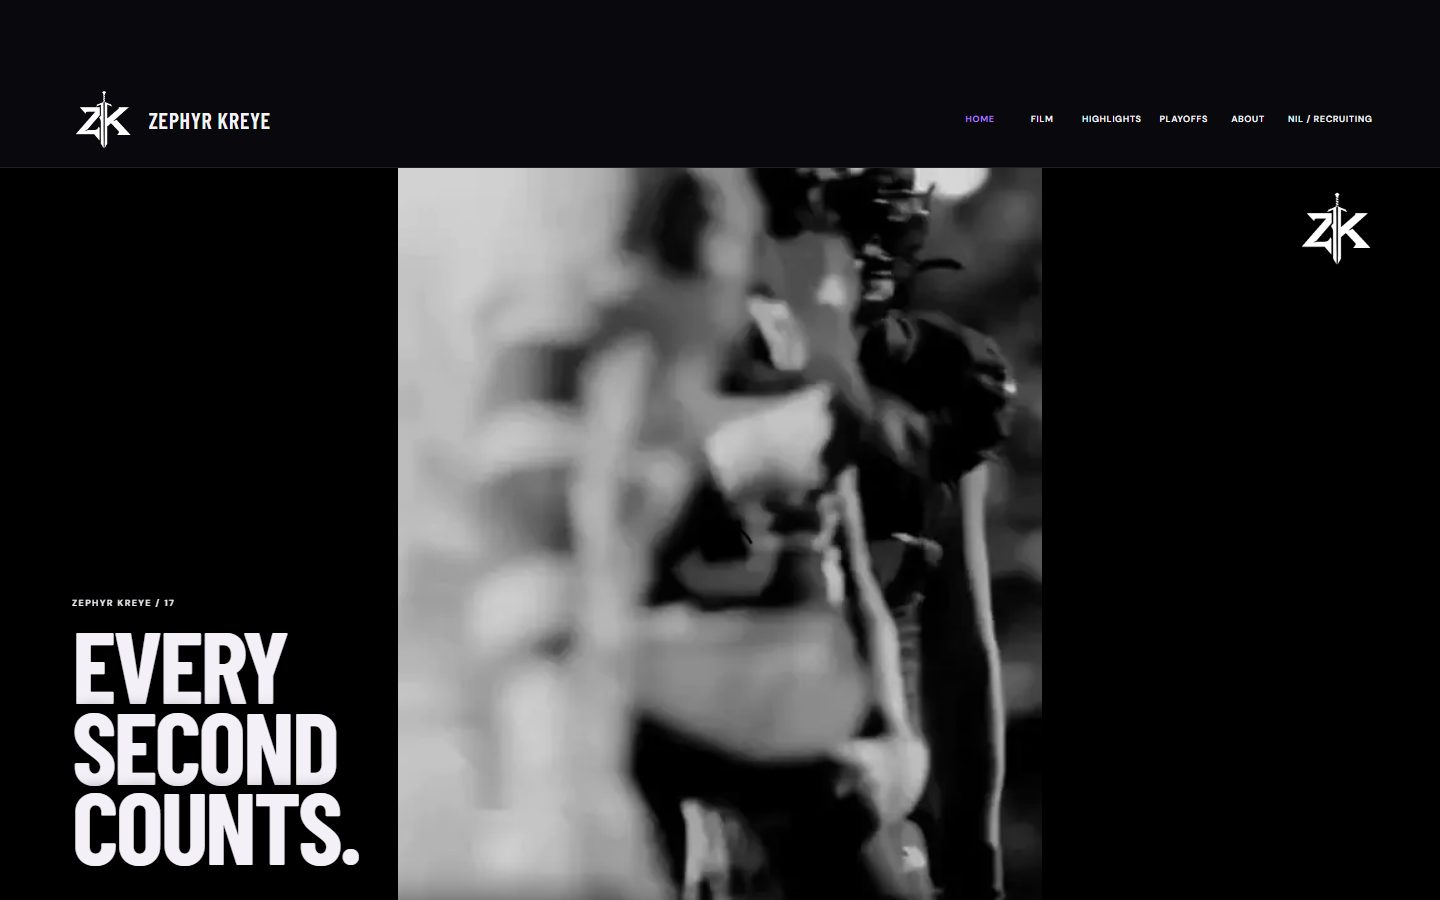
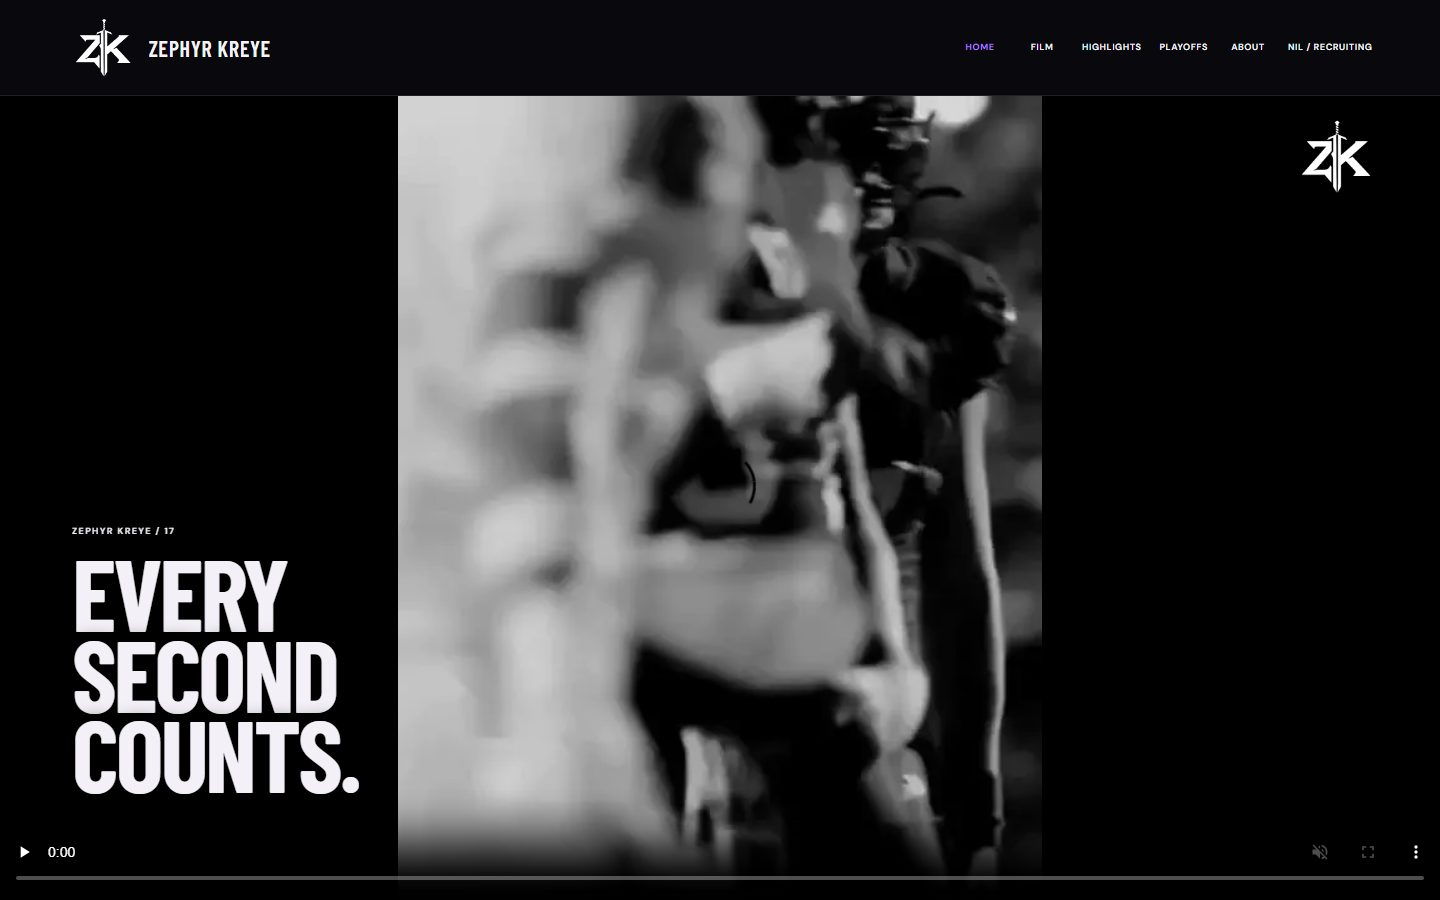
[CF-Pages-Skip] Record refined controls acceptance and settled baseline evidence

diff --git a/.agent/evidence/refined-controls/review.md b/.agent/evidence/refined-controls/review.md
@@ -1,3 +1,30 @@
+# Final verdict — READY FOR DEVELOPMENT PREVIEW
+
+No unresolved material product findings on the frozen local candidate. This is an independent source/browser review, not merge or production approval. The owner authorized development preview only; deployment and remote verification remain the lead's delivery steps.
+
+Candidate: **7e8f5e41d6697478b42d5bc114666ae3f27d9e45**, compared with dc7739e4bead6179042ac3589dfa2c77e13c1dea. Independently verified HEAD equals that commit and the app/components/lib/content/package worktree diff against HEAD is empty after final checks. Protected lib/content/public/package diff against the base is also empty. Any product edit requires affected re-verification.
+
+## Final evidence inspected
+
+- Final lint and typecheck logs: clean; unit-final:62 passed, zero failed.
+- build-final: successful webpack static export, release boundary/prebuild,63-game validation, playoff asset validation.
+- e2e-final:213 passed,7 existing skips, zero failures across desktop Chromium, mobile Chromium, iPhone WebKit emulation, reduced motion. Repaired assertions retain intro phase/visibility, focus, navigation and44px lower bounds; they do not waive behavior.
+- Before/after capture manifests:29 images each covering control families in desktop/portrait/landscape. Independently inspected representative hero, links/primary, playoff, arcade, game-center and media-close frames; final portrait and landscape menu frames now show canonical brand, six readable links and one CLOSE.
+- Independent runtime:21 route/viewport combinations, no horizontal document overflow. Menus retain keyboard wrap and body scroll lock. Final menu repair specifically rerun in8 combinations (Chromium/WebKit x portrait/landscape x home/About): CLOSE focused and center hit-testable; trigger hidden; six links visible; Escape and pointer CLOSE restore MENU focus.
+- Independent repairs checked: three affected logo links44x44; film CLOSE44x44; game CLOSE44.56x44; paper pressed color rgb105,64,170. Arcade four categories each retain three supplied items, selected2px underline and return focus. RegionIII15 games, selected round4 games.
+- Independent animated Chromium/WebKit forward/reverse: SCROLL TO EXPLORE after reveal focuses FilmRoom at top0, introComplete=true; reverse to top restores introComplete=false and cold-logoopacity0.9. Timeline durations/distances remain unchanged.
+- Latest real-Hudl receipt: starts paused, then video currentTime>0.7 in Chromium/WebKit; desktop fullscreen succeeds; no latest pageerrors/overflow; homepage makes zero Hudl requests. Independently tested real iframe identity in both engines through390/844/1440 resize and scrolling: one iframe, one total Hudl navigation, same document marker retained.
+- Source audit: no decorative arrow/chevron references remain in app/components TSX/CSS; obsolete arrow component removed; native select and necessary media controls preserved. Content/data, canonical media/logo assets, six destinations, dependencies and Hudl implementation unchanged.
+
+## Findings disposition and limits
+
+All source findings below are repaired and their affected runtime behavior rechecked. Initial failed suite and incomplete screenshot observations are historical, not accepted evidence. Final source has no open P1/P2 findings from this review.
+
+Physical iPhone validation remains UNKNOWN; WebKit here is browser emulation. Hudl is third party: an earlier local run emitted AdError1101 while playback still worked; latest run is clean, so this is recorded as intermittent vendor behavior rather than suppressed. WebKit fullscreen was not verified. Remote development deployment and exact deployed commit have not been certified by this local verdict. Production and merge are outside authorization.
+
+---
+
+# Historical review trail
 # Independent review: refined controls
 
 Status: IN PROGRESS. No final verdict while product files remain mutable and the server still serves the earlier export.
@@ -44,3 +71,5 @@ First full e2e receipt:190 passed,7 skipped,23 failed. Most failures are tests t
 Further P2 from settled mobile-menu visual review: both trigger and internal CLOSE stay visible when open. At390x844 home, internal CLOSE rectangle x300.28/y20/58.53x44 overlaps trigger CLOSE x313.47/y15.5/58.53x44,z42; center hit testing returns trigger. Route header has MENU over CLOSE instead. Reproduced after650ms on home/About and both390/844 widths. Requires hiding the expanded trigger while keeping internal close, focus trap, and return focus. This was obscured by earlier blank menu screenshots.
 
 Final-built repair checks already verified: three logo links44x44; light-surface pressed color rgb105,64,170; film-room tabindex-1. Chromium and WebKit both navigate/focus FilmRoom at top0, mark introComplete=true, and reverse to coldlogoopacity0.9/introComplete=false.
+
+

diff --git a/docs/REFINED_CONTROLS_QA.md b/docs/REFINED_CONTROLS_QA.md
@@ -23,3 +23,5 @@ Protected-surface check: git diff dc7739e -- content lib public brand package.js
 [Interactive comparison](../.agent/evidence/refined-controls/visual-review.html) covers navigation, links/primary, mobilemenu, playoffs, arcade/category/BACK, media and utility families.29baseline and29final screenshots cover1440×900,390×844 and844×390. Baseline comes from immutableDEV00b39a31/product2ec0a703; final shots are from the tested local build. Mobile menus are captured only after links/transform/fonts settle. Screenshots are actual browser captures, not mockups. Approvedreference/spec and initial/final logs are adjacent.
 
 DEV-only deployment and exactcommit/URL/remoteverification are recorded below after delivery. Production/main are not authorized for changes and PR11 remains unmerged.
+
+Independent Astra review accepted product commit7e8f5e41d6697478b42d5bc114666ae3f27d9e45 for PR/authorizedDEV delivery with no unresolved material findings. Report includes source hashes/runtime proof and preserves limitations. Before menu screenshots were recaptured with the same settled-link/font guard as after, so no transition blank is presented as a baseline defect.

diff --git a/.agent/CURRENT_STATE.md b/.agent/CURRENT_STATE.md
@@ -7,3 +7,5 @@ FiveLuna builders supplied bounded product/test work. SeparateAstra testmigratio
 RealHudlplayback bothengines/nohomepageHudlrequests anddesktopfullscreen pass, latestpageerrors/overflow empty. EarliervendorAdError1101 retained asdiagnostic; vendoraccessibilitymanualreview/devicehardwarelimitsremain. NativeFilmRoomanchor focus preserved, singlemobileCLOSE/focusreturn, papercontrast/logo44hitboxes verified.
 
 Next: commitcandidate/getfinalcriticidentity, updatePR11, authorizedDEVonlyupload+liveverify/exactURL. No merge/production. Source andbaselineevidence preserved; unrelatedolduntrackedpreviewlogs untouched. Ownerreviewnext.
+
+FinalAstrareviewaccepted7e8f5e41withno unresolvedmaterialfindings. Bothbefore/aftermenusettledcaptureguardsmatch. ReadyPR11/authorizedDEVonlydelivery;213browserpass7skips62unit/buildlinttypepass.
